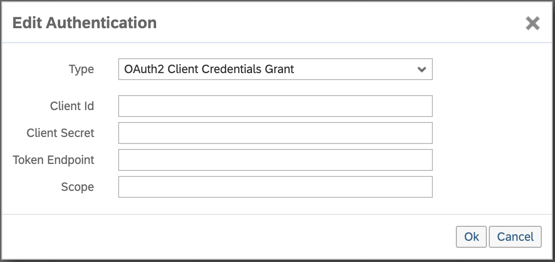
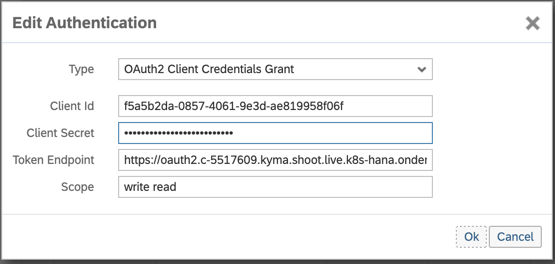
Update the README.md documentation

diff --git a/setup/README.md b/setup/README.md
@@ -74,71 +74,6 @@ After creating the SuccessFactors System we are now able to create an entitlemen
    To benefit out of SAP SuccessFactors API,  bind your application to created instance and all SAP SuccessFactors
    credentials will be accessible as environment variables.
 
-## SAP SuccessFactors Event Notifications
-
-SAP SuccessFactors allow subscriptions to different events coming as result of different operations on the system.
-Following steps are required to have a subscription to <code>Job Title Update</code> events as per our PoC.
-
-1. Login SAP SuccessFactors using admin tenant account.
-
-
-2. Navigate to <code>Admin Center</code>
-
-   ![Event Notification](./images/sf-6.png)
-
-3. Current PoC has implemented push events mechanism over WebHook.
-
-    - WebHook configuration, follow the steps of [Push Event using WebHook](#push-event-using-webhook)
-
-### Push Event using WebHook
-
-Here we will cover the SAP SuccessFactors WebHook configuration, which will push event to out PoC.
-Current PoC does expose a REST Endpoint <code>POST /webhook/success-factors</code> where the events will push to:
-
-1. On <code>Tools</code> searching bar, look for <code>Event Notification Subscription</code>
-
-   ![Event Notification](./images/sf-7.png)
-
-2. Create a new Subscriber under <code>Subscriber</code> tab if not exist already,
-   by clicking <code>Edit Subscriber</code> then <code>+ Add Subscriber</code>.
-
-   ![Event Notification](./images/sf-8.png)
-
-   ![Event Notification](./images/sf-9.png)
-   Replace Example Subscribe Id, Name, Group & Client Id with some unique and meaningful names.
-   Click the button <code>Save</code>.
-
-
-3. Navigate to <code>SEB External Event</code> tab & click the <code>+ Add Topic</code> button.
-
-   ![Event Notification](./images/sf-12.png)
-
-    * Form list select the event to which you want to subscribe to, select the event <code>Change in Job Title</code>.
-      Click the button <code>Save</code>.
-
-      ![Event Notification](./images/sf-11.png)
-
-    * Click the button <code>+ Add Subscription</code>. After full-filing all information click the button <code>Save</code>.
-
-      ![Event Notification](./images/sf-12.png)
-
-    - For column SEB Event Type - <i>Select <code>External Event Alert</code>from the list</i>
-    - For column Endpoint Url - <i>Introduce your public URL endpoint of your microservice,
-      to which events will be pushed using HTTP POST method</i>.
-      For instance: https://successfactors-middleware.c-XXXXXX.kyma.shoot.live.k8s-hana.ondemand.com/webhook/success-factors
-    - For column Subscriber - <i>Select early created subscriber under <code>Subscriber</code>tab</i>
-    - For column Authentication - <i>Client on provided link, and select authentication method</i>
-
-      ![Event Notification](./images/sf-13.png)
-
-      We will choose <code>OAuth2 Client Credentials Grant</code>
-
-      ![Event Notification](./images/sf-14.png)
-
-      Full-fill all OAuth2 credentials used to protect your microservice public URL endpoint.
-      All fields values should be collected from Kyma Dashboard under <code>OAuth Clients</code> left menu,
-      only after deploying the application, see the of [application configuration](#application-configurations).
-
 ## DocuSign
 As was already stated early, you should have a ready DocuSign account.
 
@@ -284,17 +219,22 @@ Go to deployment folder and use <code>DocuSignTemplates_Job Title Updated.zip</c
 
 ## Application Configurations
 
-Clone locally the [source code](https://github.tools.sap/btp-use-case-factory/successfactors-docusign-extension).
-Go to deployment folder and replace following lines into files:
+Clone locally the repo.
+```bash
+    git clone https://github.com/SAP-samples/successfactors-cloud-extension-docusign.git
+    cd successfactors-cloud-extension-docusign
+```
+
+Go to deployments folder and replace following lines into files:
 
 * Update following file content <code>101-successfactors-middleware-conf.yaml</code>
     ```bash
       sf_url: "https://apisalesdemo2.successfactors.eu" // API endpoint of your SuccessFactors account
       docu_sign_signer_email: "<your email>" // Your Name 
       docu_sign_signer_name: "<your full name>" // Your Email Address 
-      docu_sign_base_url: "https://demo.docusign.net/restapi" // Base Url of DocuSign account
-      docu_sign_ouath_base_url: "account-d.docusign.com" // OAuth Base Url of your DocuSign account
-      docu_sign_ouath_scopes: "signature impersonation" // OAuth Scopes
+      docu_sign_base_url: "https://demo.docusign.net/restapi" // Base Url of DocuSign account, should be changed to production
+      docu_sign_ouath_base_url: "account-d.docusign.com" // OAuth Base Url of your DocuSign account, should be changed to production
+      docu_sign_ouath_scopes: "signature impersonation" // OAuth Scopes, should be collected from DocuSign App integration
       docu_sign_template_id: "dc69433b-8886-4a32-b3f2-4b8e93d8c222"  // ID of your DocuSign template
       docu_sign_account_id: "022d968e-5d22-42a3-95bc-9724d0a66703"   // Collected During after getting the Docusign Account
       docu_sign_api_integration_key: "7f511a91-c3e0-4050-91db-cde40620fe4a" // Collected once done the Integration
@@ -340,6 +280,84 @@ WebHook Endpoint used to receive events from SAP SuccessFactors should be secure
   As Token Endpoint, this format should be used: https://oauth2.X-XXXXXX.kyma.shoot.live.k8s-hana.ondemand.com/oauth2/token
   Will require to be used on SAP SuccessFactors for Event Notification Authentication.
 
+
+## SAP SuccessFactors Event Notifications
+
+SAP SuccessFactors allow subscriptions to different events coming as result of different operations on the system.
+Following steps are required to have a subscription to <code>Job Title Update</code> events as per our PoC.
+
+1. Login SAP SuccessFactors using admin tenant account.
+
+
+2. Navigate to <code>Admin Center</code>
+
+   ![Event Notification](./images/sf-6.png)
+
+3. Current PoC has implemented push events mechanism over WebHook.
+
+    - WebHook configuration, follow the steps of [Push Event using WebHook](#push-event-using-webhook)
+
+### Push Event using WebHook
+
+Here we will cover the SAP SuccessFactors WebHook configuration, which will push event to out PoC.
+Current PoC does expose a REST Endpoint <code>POST /webhook/success-factors</code> where the events will push to:
+
+1. On <code>Tools</code> searching bar, look for <code>Event Notification Subscription</code>
+
+   ![Event Notification](./images/sf-7.png)
+
+2. Create a new Subscriber under <code>Subscriber</code> tab if not exist already,
+   by clicking <code>Edit Subscriber</code> then <code>+ Add Subscriber</code>.
+
+   ![Event Notification](./images/sf-8.png)
+
+   ![Event Notification](./images/sf-9.png)
+   Replace Example Subscribe Id, Name, Group & Client Id with some unique and meaningful names.
+   Click the button <code>Save</code>.
+
+
+3. Navigate to <code>SEB External Event</code> tab & click the <code>+ Add Topic</code> button.
+
+   ![Event Notification](./images/sf-12.png)
+
+    * Form list select the event to which you want to subscribe to, select the event <code>Change in Job Title</code>.
+      Click the button <code>Save</code>.
+
+      ![Event Notification](./images/sf-11.png)
+
+    * Click the button <code>+ Add Subscription</code>. After full-filing all information click the button <code>Save</code>.
+
+      ![Event Notification](./images/sf-12.png)
+
+    - For column SEB Event Type - <i>Select <code>External Event Alert</code>from the list</i>
+    - For column Endpoint Url - <i>Introduce your public URL endpoint of your microservice,
+      to which events will be pushed using HTTP POST method</i>.
+      For instance: https://successfactors-middleware.c-XXXXXX.kyma.shoot.live.k8s-hana.ondemand.com/webhook/success-factors
+    - For column Subscriber - <i>Select early created subscriber under <code>Subscriber</code>tab</i>
+    - For column Authentication - <i>Client on provided link, and select authentication method</i>
+
+      ![Event Notification](./images/sf-13.png)
+
+      We will choose <code>OAuth2 Client Credentials Grant</code>
+
+      ![Event Notification](./images/sf-14.png)
+
+      Full-fill all OAuth2 credentials used to protect your microservice public URL endpoint.
+      All fields values should be collected from Kyma Dashboard under <code>OAuth Clients</code> left menu,
+      only after deploying the application.
+      
+      - For Client Id field collect it from Kyma Dashboard under <code>OAuth Clients</code>
+      - For Client Secret field collect it from Kyma Dashboard under <code>OAuth Clients</code>
+      - For Token Endpoint should have the pattern link <code>https://oauth2.<kyma domain name>/oauth2/token</code>
+        For instance: <code>https://oauth2.c-5517609.kyma.shoot.live.k8s-hana.ondemand.com/oauth2/token</code>
+      - For Scope field - collect it from Kyma Dashboard under <code>APIRules</code> for <code>successfactors-middleware</code>
+        out of <code>/webhook/success-factors</code> strategy.
+
 ## Trigger Execution Flow
 
-Navigate to SAP SuccessFactors, lookup for a candidate adn change the job title.
+* Navigate to SAP SuccessFactors, lookup for a candidate and change the job title.
+* Using K8S command line tool <code>kubectl logs <pod name> successfactors-middleware </code> see the logs, you should see 
+  that the event was received
+* On success event processing the person whose job title has changed should receive emails with an link to DocuSign 
+  link in order to sign electronically.
+* After signing the document, waiting some minutes over email will be sent a copy of signed document  
